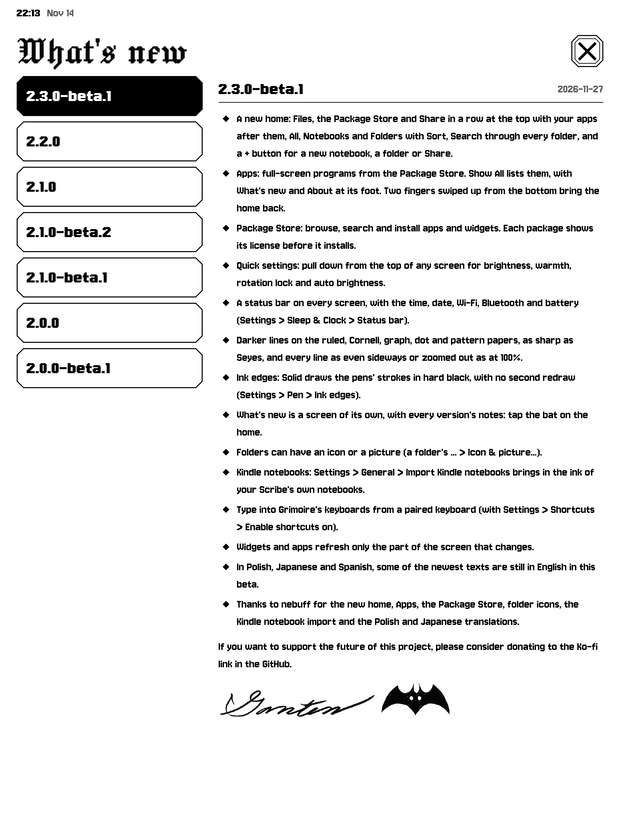
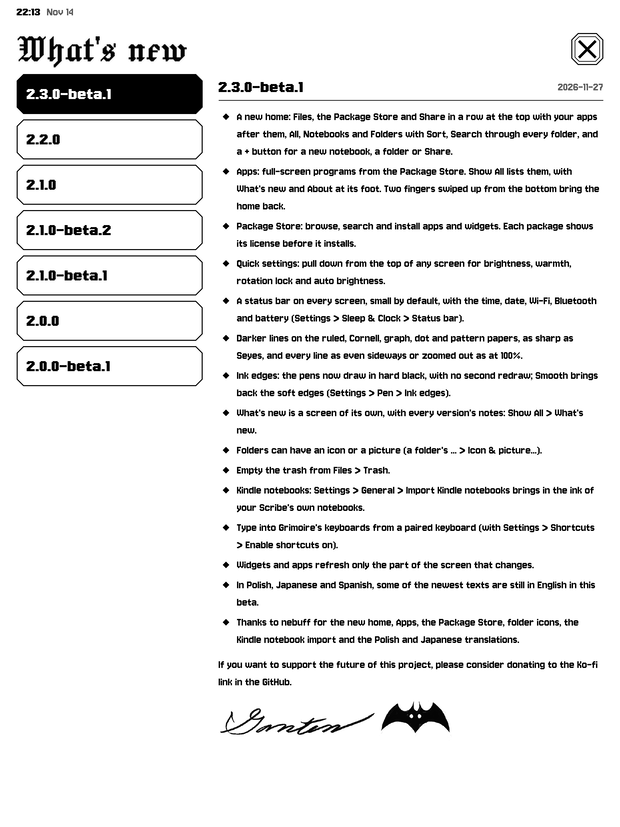
release: 2.3.0-beta.1's What's new and TESTING after the owner's device test (#302)
What's new, as the owner approved it: the status bar small by default, Ink
edges drawing in hard black with Smooth to bring back the soft edges, What's
new opened from Show All now that the bat is gone, and Empty trash. The notes
still fit one page at the same size and leading (z_about). TESTING records the
owner's test of the c0132632 build on the Scribe (the checks, the log's
settles, the dropped pen samples) and what came after it: #329, #330, #331,
#332 and #326. docs/screens/whatsnew.png is made again from z_about's shot.

Claude-Session: https://claude.ai/code/session_01Uoe9ZJNyEZYoc4bsjqbSyQ

Changed region(s): [[0.0306, 0.0, 0.9806, 0.9069]]

diff --git a/docs/TESTING.md b/docs/TESTING.md
@@ -3677,7 +3677,10 @@ They check the headless runner's panel; on the Kindle, check what the screen sho
 The first beta of 2.3, from `release/2.3.0`: cut from `main` at `ef80193a` on 2026-11-26, after the owner chose a
 beta before 2.3.0 ("a 2.3 beta 1 is fine -- full release can have the strings"), with the work merged into it
 since: the home's app row, the bat and the small status bar (#319), Ink edges (#320), and `main` again through
-#310 and the steadier scenarios of #323 (#302), which brought a page a little smaller than the screen at 100% (#303), even paper lines below 100%
+#310 and the steadier scenarios of #323 (#302), then, after the owner's device test below, Solid and the small status bar
+as the defaults (#329), Empty trash (#330), the folder icons drawn filled (#331), the home without the bat, with
+Search before Settings, even app squares and ruled parts (#332), and no Quick settings panel on a device without a
+front light (#326, which a Scribe never is), which brought a page a little smaller than the screen at 100% (#303), even paper lines below 100%
 (#308) and six changes for platforms kept in other crates (#274, #275, #278, #280, #281, #282), of which a Kindle
 shows one toast (Warmth down or up on a light without warmth says "This Kindle has no warmth control."). It holds
 everything in CHANGELOG's 2.3.0-beta.1 section: the home redesign, Apps and the Package Store
@@ -3694,7 +3697,15 @@ release commit with the pinned toolchain. Crate ages: wasmi, wasmi_collections, 
 build `725feb9851ea`), from before the work above was merged, was installed on the owner's Scribe (firmware
 5.20.1.0.2) on 2026-11-26 after a backup, with the notebooks unchanged and KOReader left alone; the owner asked
 for the home's row, the bat and the smaller status bar (#319) and for Ink edges (#320) before the beta is
-published. The release commit's own build is not yet on a Kindle.
+published. The build of `c0132632` (build `73491137bcb4`), the release before #326 and #329 to #332, was installed on
+the owner's Scribe on 2026-11-27 after a backup, with the notebooks unchanged and KOReader left alone; the owner
+looked at What's new from the bat, the home's row, the status bar's small size, papers sideways, the Package Store
+and an older notebook, and ran the thirteen Ink edges device checks (docs/TESTING.md, 2.3, Ink edges): "the checks
+all look good". The Scribe's log over the session had none of the checks' failure lines in dmesg, the settles
+"quiet 30, part 5, whole 0" with no failed refresh and no whole answer, and five single pen samples dropped by the
+kernel, each right after a long step (an undo's redraw, a pen lift, a rotation), none at a settle, with no stroke
+missing its start. The owner then asked for the changes above. The release commit's own build is not yet on a
+Kindle.
 
 ## 2.2.0
 

diff --git a/docs/whatsnew/2.3.0-beta.1.md b/docs/whatsnew/2.3.0-beta.1.md
@@ -4,11 +4,12 @@
 - Apps: full-screen programs from the Package Store. Show All lists them, with What's new and About at its foot. Two fingers swiped up from the bottom bring the home back.
 - Package Store: browse, search and install apps and widgets. Each package shows its license before it installs.
 - Quick settings: pull down from the top of any screen for brightness, warmth, rotation lock and auto brightness.
-- A status bar on every screen, with the time, date, Wi-Fi, Bluetooth and battery (Settings > Sleep & Clock > Status bar).
+- A status bar on every screen, small by default, with the time, date, Wi-Fi, Bluetooth and battery (Settings > Sleep & Clock > Status bar).
 - Darker lines on the ruled, Cornell, graph, dot and pattern papers, as sharp as Seyes, and every line as even sideways or zoomed out as at 100%.
-- Ink edges: Solid draws the pens' strokes in hard black, with no second redraw (Settings > Pen > Ink edges).
-- What's new is a screen of its own, with every version's notes: tap the bat on the home.
+- Ink edges: the pens now draw in hard black, with no second redraw; Smooth brings back the soft edges (Settings > Pen > Ink edges).
+- What's new is a screen of its own, with every version's notes: Show All > What's new.
 - Folders can have an icon or a picture (a folder's ... > Icon & picture...).
+- Empty the trash from Files > Trash.
 - Kindle notebooks: Settings > General > Import Kindle notebooks brings in the ink of your Scribe's own notebooks.
 - Type into Grimoire's keyboards from a paired keyboard (with Settings > Shortcuts > Enable shortcuts on).
 - Widgets and apps refresh only the part of the screen that changes.
